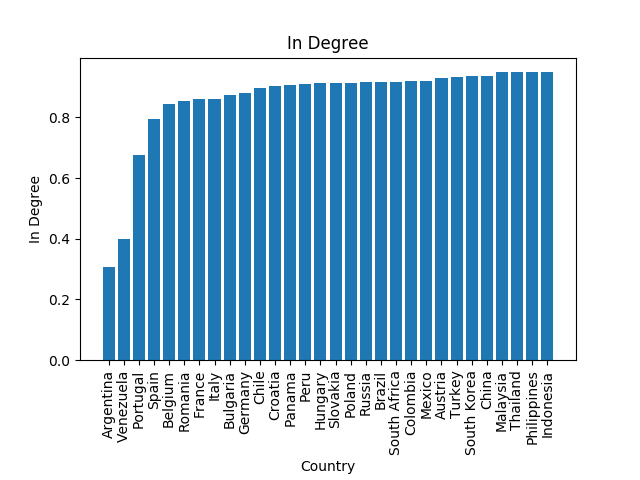
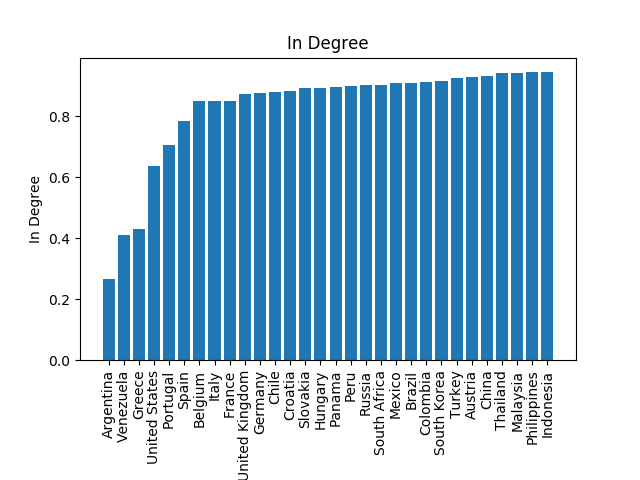
Final commit

diff --git a/analyze_graph.py b/analyze_graph.py
@@ -3,15 +3,15 @@ import networkx as nx
 from networkx.algorithms.community.kernighan_lin import kernighan_lin_bisection
 import matplotlib.pyplot as plt
 
-GRAPH_WEIGHT_MATRIX_FILE = 'cds/WeeklySTD_CDS_Network_GVD_p8_keep2500.csv'
+GRAPH_WEIGHT_MATRIX_FILE = 'cds/WeeklySTD_CDS_Network_GVD_p8_keep2500_Greece_US_UK.csv'
 EPSILON = 1e-8
 
 # Edge weight threshold only used for
 # plotting of high weight edges
-EDGE_WEIGHT_THRESHOLD = 0.06
+EDGE_WEIGHT_THRESHOLD = 0.08
 
 # Mapping from countries to continents
-CONTINENT_MAP = {'Brazil': 'South America', 'Chile': 'South America', 'China': 'Asia', 'Colombia': 'South America', 'Indonesia': 'Asia', 'Malaysia': 'Asia', 'Mexico': 'North America', 'Panama': 'North America', 'Peru': 'South America', 'Philippines': 'Asia', 'Russia': 'Asia', 'South Africa': 'Africa', 'South Korea': 'Asia', 'Thailand': 'Asia', 'Turkey': 'Asia', 'Argentina': 'South America', 'Austria': 'Europe', 'Belgium': 'Europe', 'Bulgaria': 'Europe', 'Croatia': 'Europe', 'France': 'Europe', 'Germany': 'Europe', 'Hungary': 'Europe', 'Italy': 'Europe', 'Poland': 'Europe', 'Portugal': 'Europe', 'Romania': 'Europe', 'Slovakia': 'Europe', 'Spain': 'Europe', 'Venezuela': 'South America'}
+CONTINENT_MAP = {'Brazil': 'South America', 'Chile': 'South America', 'China': 'Asia', 'Colombia': 'South America', 'Indonesia': 'Asia', 'Malaysia': 'Asia', 'Mexico': 'North America', 'Panama': 'North America', 'Peru': 'South America', 'Philippines': 'Asia', 'Russia': 'Asia', 'South Africa': 'Africa', 'South Korea': 'Asia', 'Thailand': 'Asia', 'Turkey': 'Asia', 'Argentina': 'South America', 'Austria': 'Europe', 'Belgium': 'Europe', 'Bulgaria': 'Europe', 'Croatia': 'Europe', 'France': 'Europe', 'Germany': 'Europe', 'Hungary': 'Europe', 'Italy': 'Europe', 'Poland': 'Europe', 'Portugal': 'Europe', 'Romania': 'Europe', 'Slovakia': 'Europe', 'Spain': 'Europe', 'Venezuela': 'South America', 'Greece': 'Europe', 'United States': 'North America', 'United Kingdom': 'Europe'}
 
 def load_country_list():
     with open(GRAPH_WEIGHT_MATRIX_FILE) as f:
@@ -84,7 +84,12 @@ def plot_bar(x, y, xlabel, ylabel, title, output_filename):
 
     plt.savefig('figures/' + output_filename, format='png')
 
-def heatmap_weights(M):
+def block_and_heatmap(M, ranks):
+    # Reorder M
+    order = [i for _, i in sorted([(v,i) for i,v in enumerate(ranks)])]
+    M = M[order]
+    M = M[:, order]
+
     plt.clf()
     plt.imshow(M, cmap='hot')
 
@@ -192,6 +197,8 @@ def spectral_detect_communities(M):
     print convert_community_to_continent(community_a)
     print convert_community_to_continent(community_b)
 
+    return community_split
+
 ########## BEGIN ANALYSIS ##########
 
 countries = load_country_list()
@@ -202,16 +209,20 @@ np.fill_diagonal(M, 0.0)
 
 # Visualize basic network properties
 plot_network(M)
-heatmap_weights(M)
 compute_degree_distributions(M)
 
 # The highest page rank scores will be nodes that
 # are INFLUENCED a lot
-compute_pagerank_power(M)
+#print countries
+ranks = compute_pagerank_power(M.T)
+#print ranks.T.tolist()[0]
 
 # Find some communities
 #detect_communities(M)
-spectral_detect_communities(M)
+# spectral_detect_communities(M)
+
+# Stochastic block model it
+# block_and_heatmap(M, ranks)
 
 # Make a random graph null model
 # Compute motif intensity and coherence
